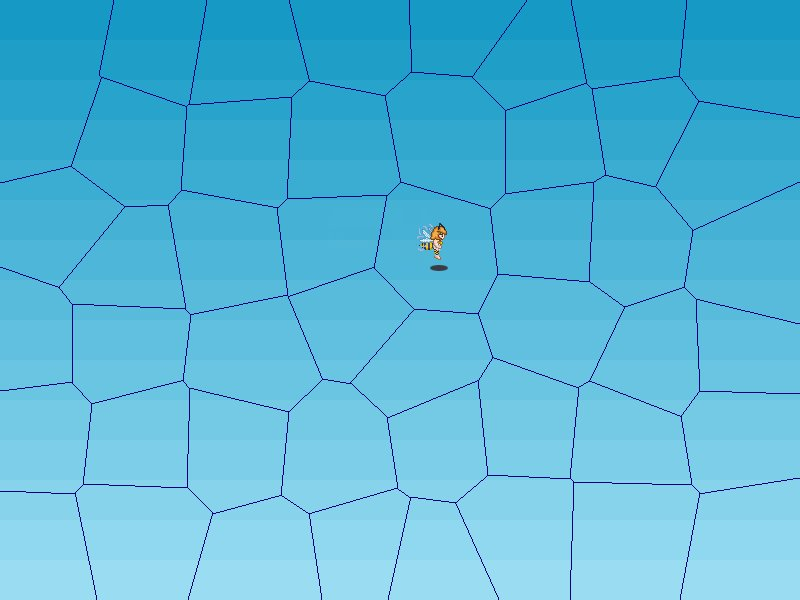
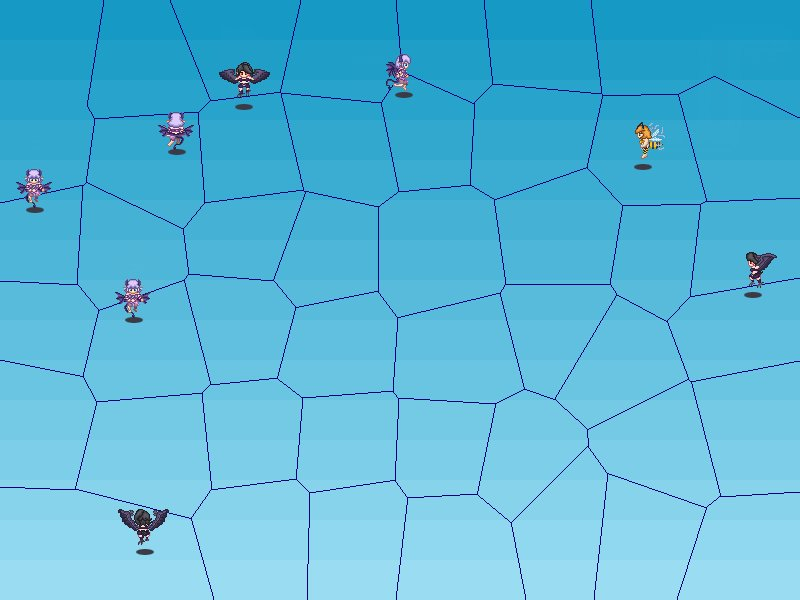
add new enemy type, update screenshots

diff --git a/core/enemy.py b/core/enemy.py
@@ -8,13 +8,14 @@ class EnemySprite(pygame.sprite.Sprite):
         super(EnemySprite, self).__init__()
         self.screen = screen
         self.left, self.right, self.up, self.down = [], [], [], []
+        enemy_type = random.choice(['1', '2'])
         for i in range(3):
-            self.left.append(pygame.image.load("./images/enemies/enemy1-left_{}.png".format(i+1)))
-            self.right.append(pygame.image.load("./images/enemies/enemy1-right_{}.png".format(i+1)))
-            self.down.append(pygame.image.load("./images/enemies/enemy1-down_{}.png".format(i+1)))
-            self.up.append(pygame.image.load("./images/enemies/enemy1-up_{}.png".format(i+1)))
-        self.index = random.randint(0, len(self.left) * 30)
-        self.image = self.right[int(self.index/30)]
+            self.left.append(pygame.image.load("./images/enemies/enemy{}-left_{}.png".format(enemy_type, i+1)))
+            self.right.append(pygame.image.load("./images/enemies/enemy{}-right_{}.png".format(enemy_type, i+1)))
+            self.down.append(pygame.image.load("./images/enemies/enemy{}-down_{}.png".format(enemy_type, i+1)))
+            self.up.append(pygame.image.load("./images/enemies/enemy{}-up_{}.png".format(enemy_type, i+1)))
+        self.index = 0
+        self.image = self.right[self.index]
         self.x, self.y, self.face = x, y, face
         self.right_x, self.left_x = x + random.randint(64, 72), x - random.randint(64, 72)
         self.down_y, self.up_y = y + random.randint(64, 72), y - random.randint(64, 72)

diff --git a/core/map.py b/core/map.py
@@ -16,7 +16,7 @@ class Map():
                 points[i * 6 + j][0] = numpy.uint16(random.randint(i * 100 + 16, (i + 1) * 100 - 32))
                 points[i * 6 + j][1] = numpy.uint16(random.randint(j * 100 + 16, (j + 1) * 100 - 32))
         self.coord = tuple(random.choice(points))
-        self.enemy_coords = [tuple(i) for i in random.sample(list(points), 5)]
+        self.enemy_coords = [tuple(i) for i in random.sample(list(points), 7)]
         return Voronoi(points)
 
     def draw_map(self):
